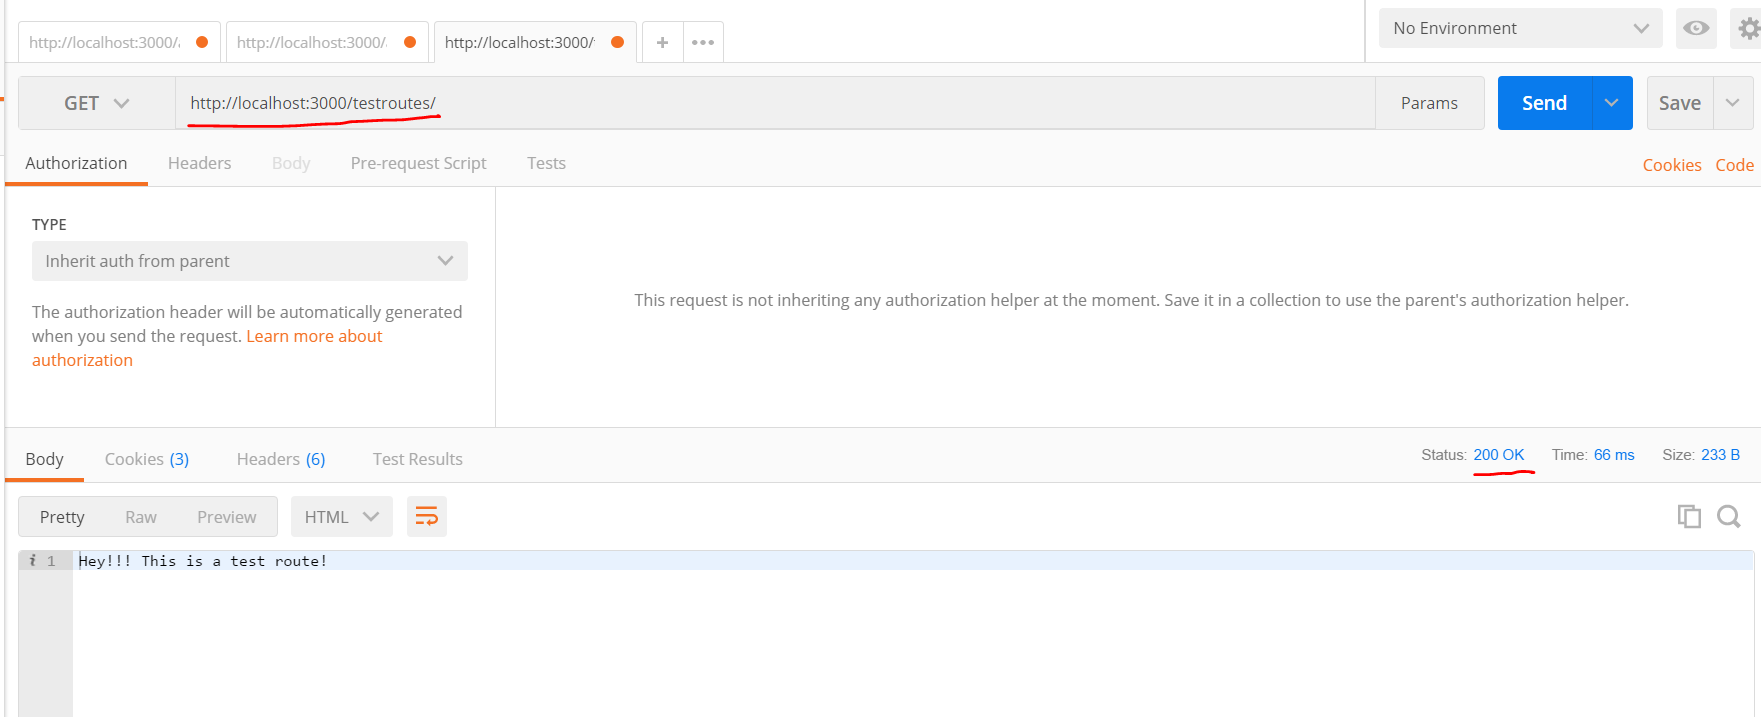
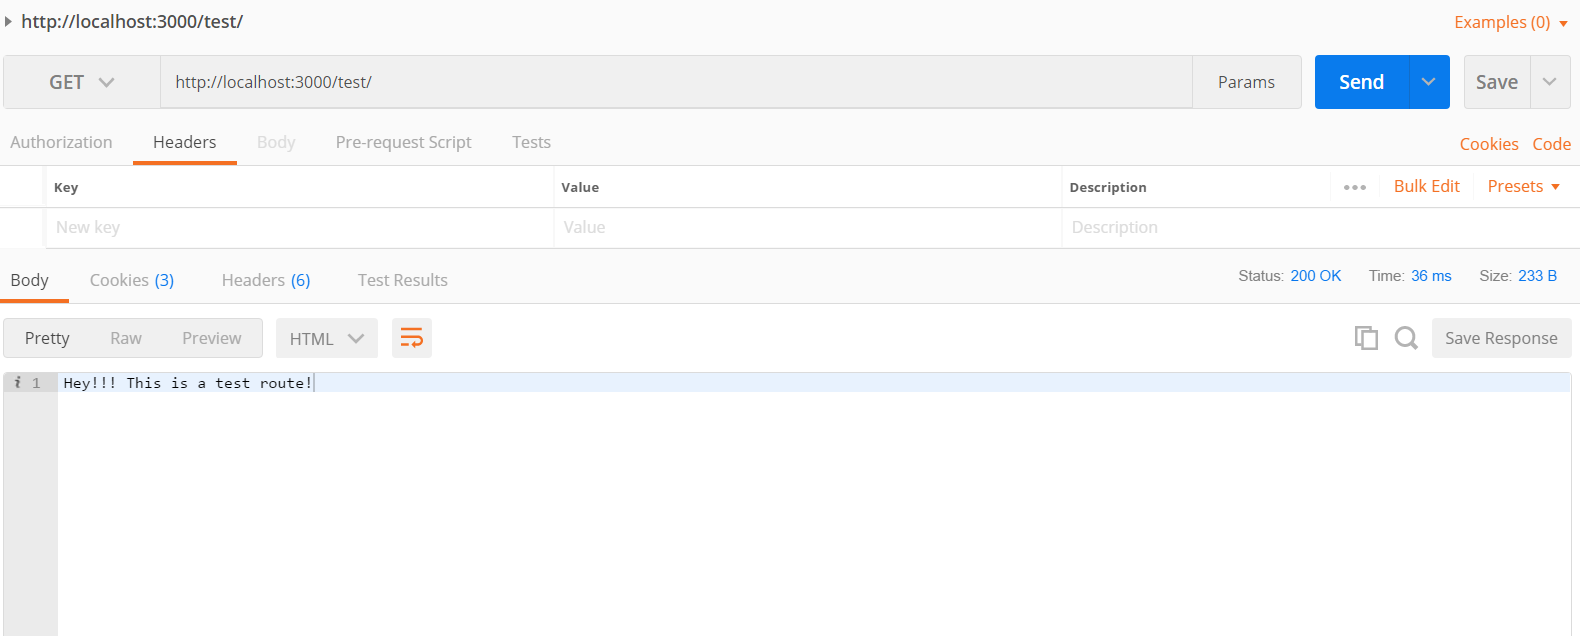
Refactored routes items

diff --git a/docs/javascript_library/06-Express-Server/03-routes/completedCode/server/app.js b/docs/javascript_library/06-Express-Server/03-routes/completedCode/server/app.js
@@ -1,13 +1,13 @@
 var express = require('express');
 var app = express();
-var testController = require('./routes/testcontrollers')
-var userController = require('./routes/moretestroutes')
+var test = require('./controllers/testcontroller')
+var user = require('./controllers/usercontroller')
 
 /***************
 *****ROUTES*****
 ****************/
-app.use('/test', testController)
-app.use('/users', userController)
+app.use('/test', test)
+app.use('/user', user)
 
 app.use('/api/test', function(req, res){
 	res.send("This is data from the /api/test endpoint. It's from the server.");

diff --git a/docs/javascript_library/06-Express-Server/03-routes/02-routes-express.md b/docs/javascript_library/06-Express-Server/03-routes/02-routes-express.md
@@ -1,26 +1,26 @@
 # EXPRESS ROUTES
 ---
-In this module we'll create a few Express routes. Because an application can have dozens upon dozens of routes, the purpose of this is to help learnt to create and organize our routes properly.
+In this module we'll create a few Express routes. Because an application can have dozens upon dozens of routes, the purpose of this is to help learn to create and organize our routes properly.
 
 <hr>
 
 ### File Set up
-Let's start by adding a `routes` folder and a `testroutes.js` file:
+Let's start by adding a `controllers` folder and a `testcontroller.js` file. We'll explain what controllers are later, but for now, add these two things:
 
 ```
 javascript-library
     └── 7-Express Server
         └── Server
-            └── routes
-                └── testroutes.js
+            └── controllers
+                └── testcontroller.js
             └── app.js
 ```
 <hr>
                 
-### testroutes
+### testcontroller.js
 
-1. Go into the `testroutes.js` file.
-2. Add the following imports along with the `router.get()` function:
+1. Go into the `testcontroller.js` file.
+2. Add the following imports along with the `router.get()` function. Numbers are included for upcoming analysis:
 
 ```js
 var express = require('express') //1
@@ -34,20 +34,21 @@ router.get('/', function (req, res) {
 ```
 
 ### Analysis
-Let's take a look at what this code is doing:
-1. We import express and store express inside `var express`, an instance of express for us to use.
-2. We create a new variable called `var router`. Since the `express` variable(line 1) gives us access into the express library, we can access express properties and methods by calling `express` + `.`. Therefore, when we call `express.Router()`, we are using the `express` variable to access the `Router()` method. The `Router()` method will return a `route` object for us. You can read about it more at the Express [docs](https://expressjs.com/en/4x/api.html#router). 
+Let's take a look at what this code is doing. It's somewhat of a repeat of what we did in the last module:
+1. We import the express framework and store express inside `var express`, an instance of express for us to use.
+2. We create a new variable called `var router`. Since the `express` variable(line 1) gives us access into the express framework, we can access express properties and methods by calling `express` + `.`. Therefore, when we call `express.Router()`, we are using the `express` variable to access the `Router()` method. <br>
+The `Router()` method will return a `route` object for us. You can read about it more at the Express [docs](https://expressjs.com/en/4x/api.html#router). 
 
-3. We use the `router` object. The `router` variable gives us access inot the `Router()` object methods. 
-4. `get()` is one of the methods in the object, and we call it. We pass two arguments into the `.get` method.
+3. We use the `router` object by using the `router` variable to get access into the `Router()` object methods. 
+4. `get()` is one of the methods in the object, and we call it here. This method allows us to complete an HTTP GET request. We pass two arguments into the `.get` method.
 5. The first argument is the path. In this case, the path is just a `/`. More on this later.
-6. The second argument is a callback function. This is also sometimes called a “handler functions”. This function gets called when the application receives a request to the specified route and HTTP method. The application “listens” for requests that match the specified route(s) and method(s), and when it detects a match, it calls the specified callback function.
+6. The second argument is a callback function. This is also sometimes called a “handler function”. This function gets called when the application receives a request to the specified route and HTTP method. The application “listens” for requests that match the specified route(s) and method(s), and when it detects a match, it calls the specified callback function.
 7. Inside our callback function we call `res.send()`. `send()` is an express method that can be called on the `res` or response object. Our response parameter is just a simple string. 
 
 <hr >
 
 ### App.js
-Before this will work, we have to add bring these routes into `app.js`. 
+Before this will work, we have to add routes into `app.js`. 
 
 1. Go to `app.js`.
 2. Add the following code:
@@ -55,23 +56,24 @@ Before this will work, we have to add bring these routes into `app.js`.
 ```js
 var express = require('express');
 var app = express();
-var testRoutes = require('./routes/testroutes')//1
+var test = require('./controllers/testcontroller')//1
 
             //2            //3
-app.use('/testroutes', testRoutes) 
+app.use('/test', test) 
 
 ```
 
 ### Analysis
-1. We import the route object that we just created and store it in a variable called `testRoutes`.
-2. We call `app.use` and in the first parameter we create a base url called `/testroutes`. So our base url will look like this:
-`http://localhost:3000/testroutes`
-3. For our second parameter for the `use()` function, we pass in `testRoutes`. This means that all routes created in the `testroutes.js` file will be sub-routes. It will look like this:
+1. We import the route object that we just created and store it in a variable called `test`.
+2. We call `app.use` and in the first parameter we create a base url called `/test`. So our base url will look like this:
+`http://localhost:3000/test`
+3. For our second parameter for the `use()` function, we pass in `test`. This means that all routes created in the `testcontroller.js` file will be sub-routes. It will look like this:
 `http://localhost:3000/testroutes` or `http://localhost:3000/testroutes/`
 
-4. Let's test this now to get a better understanding.
+<hr>
 
 ### Test
+Let's test this now to get a better understanding.
 1. Run the application using `nodemon app.js`.
 2. Open Postman.
 3. In the url link, add the following route into the Request URL bar:
@@ -82,11 +84,10 @@ app.use('/testroutes', testRoutes)
 
 <hr />
 
-
 ### Challenge #1
 We could talk all day about this, but it won't make sense until you play around. Try the following:
 1. Create a route that is the following url:
-`http://localhost:3000/testroutes/about`
+`http://localhost:3000/test/about`
 
 2. When you test the app in Postman, you should get a response like this:
 ![screenshot](assets/02-testroute-about.PNG)

diff --git a/docs/javascript_library/06-Express-Server/03-routes/03-routes-solution.md b/docs/javascript_library/06-Express-Server/03-routes/03-routes-solution.md
@@ -4,8 +4,8 @@ In this module we'll discuss the solution to the previous challenge and add a fe
 
 <hr />
 
-### Solution
-To define the route, you would have done the following in the `routes.js` file:
+### About Route Solution
+To define the route, you would have done the following in the `testcontroller.js` file:
 
 ```js
 var express = require('express')
@@ -24,39 +24,31 @@ router.get('/about', function (req, res) {
 <hr />
 
 ###Analysis
-Just a few notes on the challenge:
-1. You can use the `router` instance that we've created and call the `.get` method from express.
+Just a few review notes on the challenge:
+1. You can use the `router` instance that we've created and call the `.get` method from express to make a HTTP GET request.
 2. The first parameter is the `/about` path that we'll be appending to the URL. This will make the url look like this:
-`http://localhost:3000/testroutes/about`
-3. We pass in a callback function that will run when the path is requested. So when we type in the above url, this function fires off.
+`http://localhost:3000/test/about`
+3. Again, we pass in a callback function that will run when the path is requested. So when we type in the above url, this function fires off.
 4. The `send()` method gets called on the `res` object, and a simple string is returned. 
 
 <hr />
 
 ### Challenge #2: More practice routes
-For practice add three more test routes with messages of your choice: 
+For more practice add three more test routes with messages of your choice: 
 1. Create a route that will return a contact object:
-Here is the path: `http://localhost:3000/testroutes/contact`
+Here is the path: `http://localhost:3000/test/contact`
 
 Here is the screenshot:
 ![screenshot](assets/03-contact.PNG)
 
 2. Create a route that sends an array of projects: 
-Here is the path: `http://localhost:3000/testroutes/projects`
+Here is the path: `http://localhost:3000/test/projects`
 Here is the screenshot:
 ![screenshot](assets/04-projects.PNG)
 
 3. Create a route that sends an array of contact objects
 
-Here is the path: `http://localhost:3000/testroutes/mycontacts`
+Here is the path: `http://localhost:3000/test/mycontacts`
 Here is the screenshot: 
 ![screenshot](assets/05-mycontacts.PNG)
-
-### Challenge #3: Even More practice
-For even more practice, see if you can figure out how to create the two routes:
-Response 1:
-![screenshot](assets/06-morestuff.PNG)
-
-Response 2:
-![screenshot](assets/07-atonofdata.PNG)
 

diff --git a/docs/javascript_library/06-Express-Server/03-routes/04-routes-solution-two.md b/docs/javascript_library/06-Express-Server/03-routes/04-routes-solution-two.md
@@ -4,9 +4,7 @@ In this module we give you the answer to the challenges. Spoilers ahead.
 
 <hr />
 
-#CHALLENGE #2 SOLUTIONS
-
-Here are the routes to add to the `testroutes.js` file:
+Here are the routes to add to the `testcontroller.js` file:
 ```js
 var express = require('express')
 var router = express.Router()
@@ -42,51 +40,3 @@ router.get('/mycontacts', function (req, res) {
 module.exports = router;
 
 ```
-
-#CHALLENGE #3 SOLUTIONS
-Here is the solution for the second set of challenges. The only trick part is #3 below:
-
-1. Add a new file:
-```
-javascript-library
-    └── 7-Express Server
-        └── Server
-            └── routes
-                └── testroutes.js
-                └── moretestroutes.js
-            └── app.js
-```
-2. Add variables, routes, and export to the file:
-
-```js
-var express = require('express')
-var router = express.Router()
-
-router.get('/morestuff', function (req, res) {
-  res.send('more stuff route here!')
-});
-
-router.get('/atonofdata', function (req, res) {
-  res.send('a ton of data on the more stuff route')
-});
-
-module.exports = router;
-```
-
-3. Add the following to `app.js`:
-
-```js
-var express = require('express');
-var app = express();
-var testRoutes = require('./routes/testroutes')
-var moreTestRoutes = require('./routes/moretestroutes') //1
-
-app.use('/testroutes', testRoutes)
-    //2     //3                //4
-app.use('/moretestroutes', moreTestRoutes) 
-```
-Some minor analysis:
-1. Create a variable called `moreTestRoutes`
-2. Call `app.use()`.
-3. Create the base url. 
-4. Pass in the moreTestRoutes variable. 

diff --git a/docs/javascript_library/06-Express-Server/03-routes/01-routes-intro.md b/docs/javascript_library/06-Express-Server/03-routes/01-routes-intro.md
@@ -1,5 +1,25 @@
 #ROUTES
 ---
-TODO: Routes are....
+In this module we'll introduce the concept of routes. 
 
 <hr >
+
+### Routing Defined
+Routing refers to determining how an application responds to a client request to a particular endpoint. An endpoint is a path and a specific HTTP request method attached to that path (GET, POST, DELETE, PUT).
+
+
+### Overview
+Here's a rough diagram of what's happening with our recent code that was used as a test in Postman:
+![screenshot](assets/01-router-endpoint-diagram.png)
+
+### Analysis
+1. A GET request is made to localhost:3000/api/test.
+2. When the route is requested, Express finds the method for the specific route. Here is the method that we already added for testing Postman:
+```js
+app.use('/api/test', function(req, res){
+	res.send("This is data from the /api/test endpoint. It's from the server.");
+});
+```
+3. So when we go to the `/api/test/` endpoint, we fire off an express function `res.send`.
+4. `res` short for `response` handles packaging up the response object.
+5. The `.send()` method does the job of sending off the response.

diff --git a/docs/SUMMARY.md b/docs/SUMMARY.md
@@ -17,7 +17,7 @@
             * [01 - Routes intro](javascript_library/06-Express-Server/03-routes/01-routes-intro.md)
             * [02 - Express Router() intro](javascript_library/06-Express-Server/03-routes/02-routes-express.md)
             * [03 - Challenge 1](javascript_library/06-Express-Server/03-routes/03-routes-solution.md)
-            * [04 - Challenges 2 & 3](javascript_library/06-Express-Server/03-routes/04-routes-solution-two.md)
+            * [04 - Challenges 2](javascript_library/06-Express-Server/03-routes/04-routes-solution-two.md)
         * [04 - Controllers Intro]()
             * [01 - Controllers intro](javascript_library/06-Express-Server/03-routes/01-controllers-intro.md)
         * [04 - Database Intro]()
